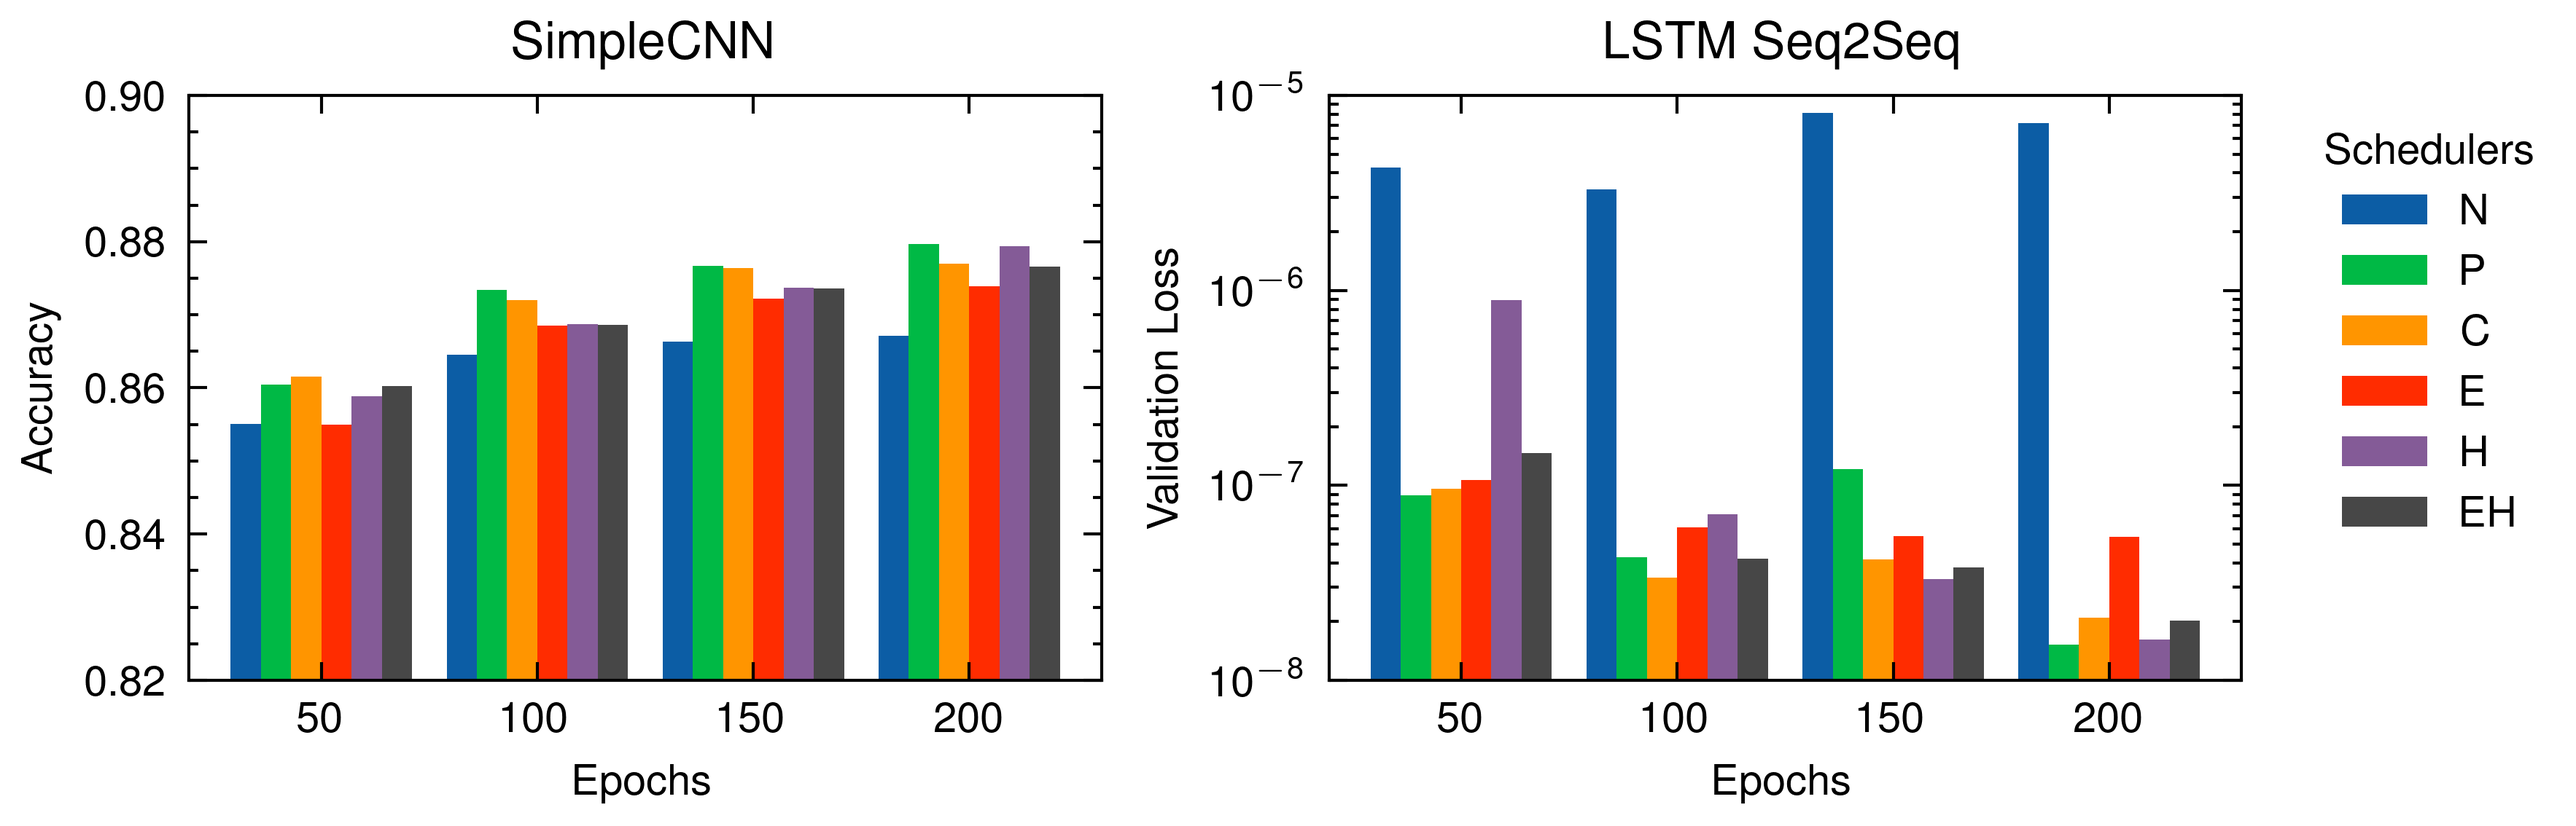
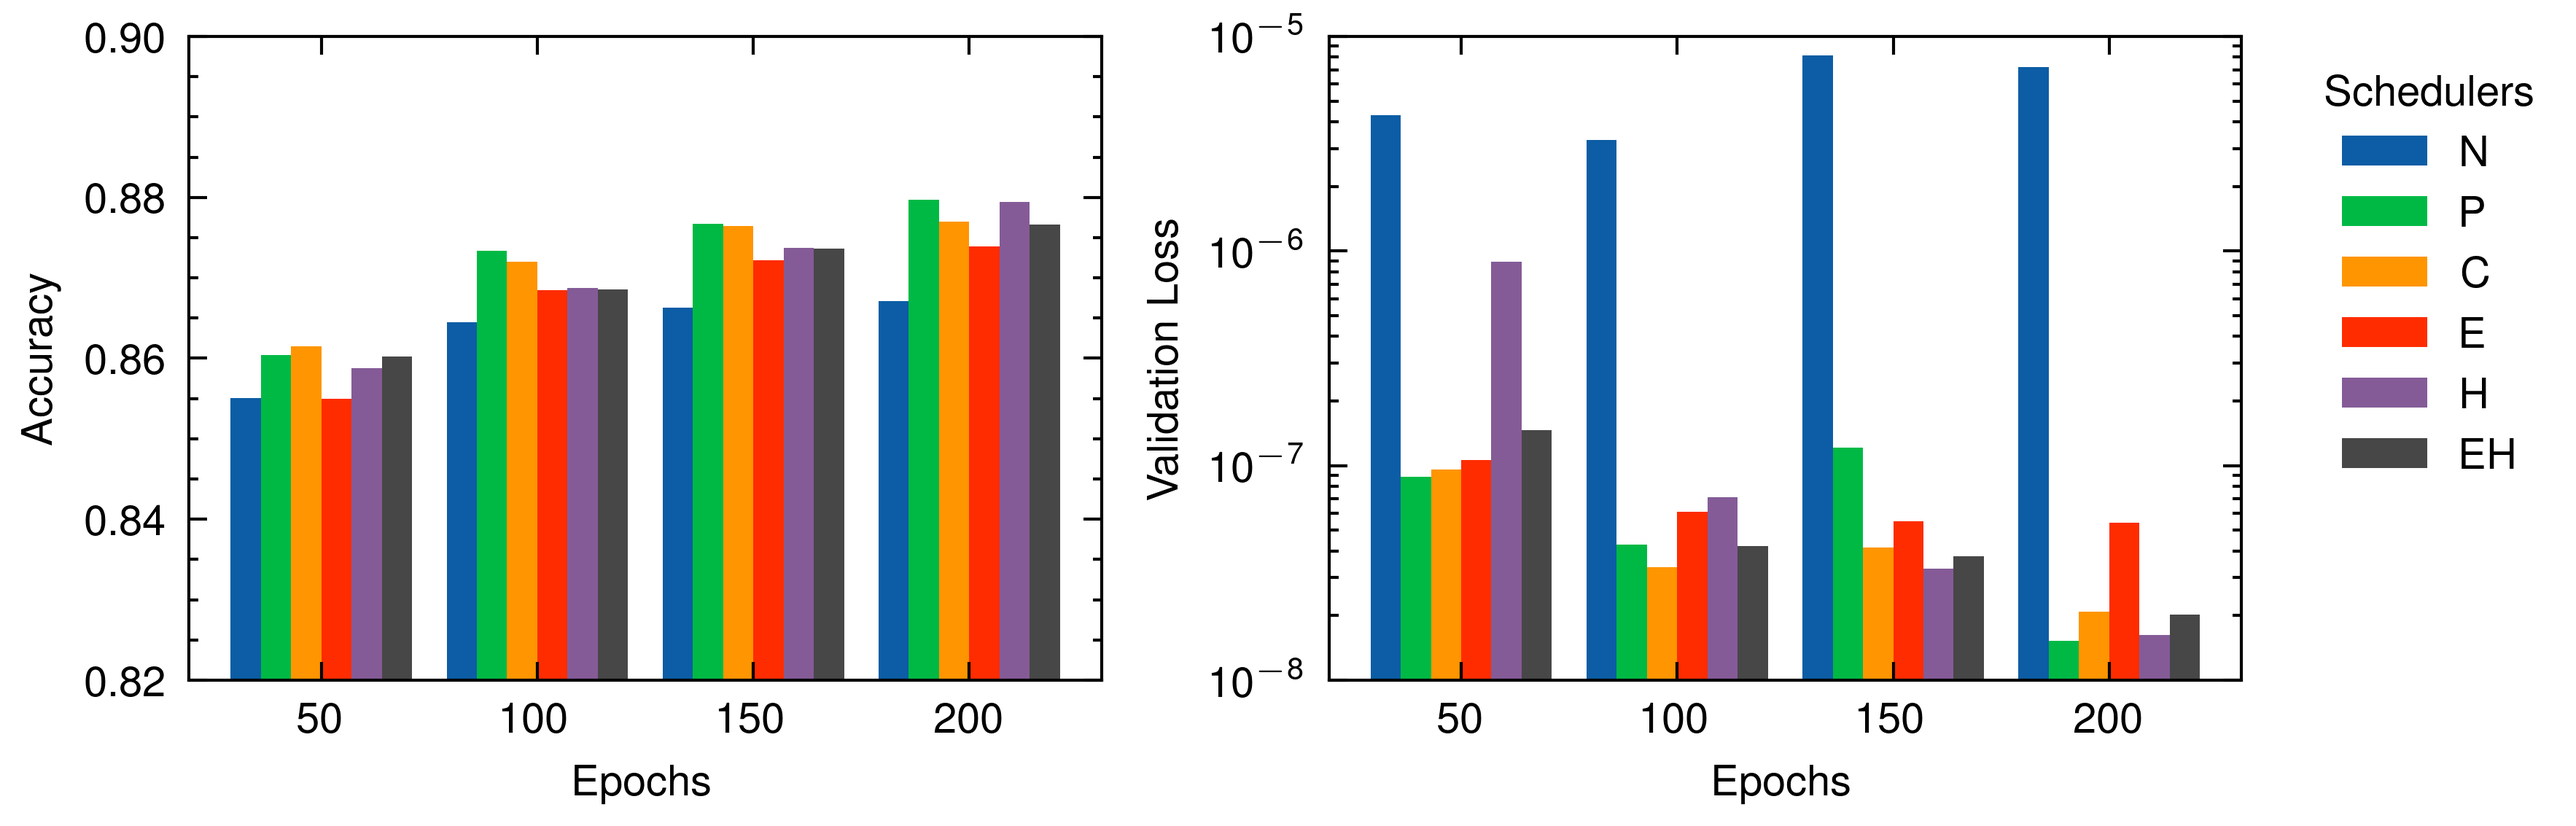
Update plots

diff --git a/paper/result_plot.py b/paper/result_plot.py
@@ -219,7 +219,7 @@ def create_bar_plot(ax, model, data, ylabel, ylim=None, yscale='log'):
     for i, scheduler in enumerate(schedulers):
         ax.bar(x + i*width, data[i], width, label=scheduler)
     
-    ax.set_title(f'{model}')
+    #ax.set_title(f'{model}')
     ax.set(**pparam, ylabel=ylabel)
     ax.set_xticks(x + width * 2.5)
     ax.set_xticklabels(epochs)
